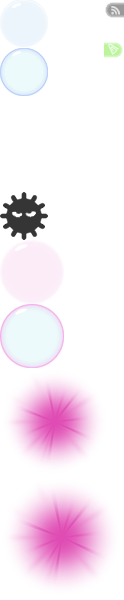
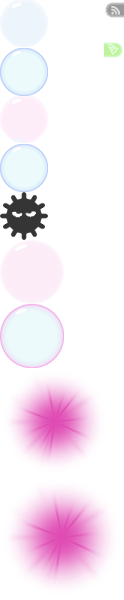
界面设置结束

Changed region(s): [[0.0, 0.24, 0.3871, 0.33]]

diff --git a/views/css/app.less b/views/css/app.less
@@ -1183,21 +1183,14 @@ section.follow_frame{
 		width:165px;
 		height:37px;
 		.sprites(-340px,-431px);
-		margin-bottom:8px;
-		margin-left: -14px;
-		float: right;
+		margin-right:15px;
+		margin-bottom:6px;
 	}
 	.cancel{
 		width:90px;
 		height:37px;
 		.sprites(-340px,-476px);
 		margin-bottom: 8px;
-		margin-right: 114px;
-		float: right;
-	}
-        .cliper{
-		display:none;
-		margin-bottom:6px;
 	}
 }
 
@@ -1645,16 +1638,44 @@ section.follow_frame{
 				font-size: 13px;	
 				height: 48px;
 				margin-top: -8px;
-				span{ width: 50px;}
 				label{
 					margin-top: 28px;
-					margin-right: -4px;
 					float: right;
 					input{
 						float: left;
 						width:auto!important;
 						height:auto!important;
 					}
+				}
+			}
+			li.tag_list{
+				height: 48px;
+				margin-top: -15px;
+				border-bottom: 1px solid #ccc;
+				.sbubb {
+          			        width: 48px;
+          			     	height: 48px;
+          				line-height: 48px;
+					font-size: 12px;
+					text-align: center;
+          				.tag_bg(0px, -96px);
+          				color:#966;
+					float:left;
+					margin-right:10px;
+        			}
+        			.stag {
+				        .sbubb;
+				        color:#966; 
+					.tag_bg(0px, 0px);
+				}
+				.private{
+					height: 37px;
+		   			width: 45px;
+    		   			line-height: 15px;
+		   			overflow: hidden;
+					float: right;
+					margin-top: 7px;
+					.glyphishs(-187px,-194px);
 				}
 			}
 			li.input_checkbox{
@@ -1674,7 +1695,30 @@ section.follow_frame{
 				min-height: 0px;
 				input{margin: 0px;}
 			}
-		}	 			
+		}
+			 			
+	}
+	.btn_group{
+		.verify{
+			width:165px;
+			height:37px;
+			.sprites(-340px,-431px);
+			margin-bottom:8px;
+			margin-left: -14px;
+			float: right;
+		}
+		.cancel{
+			width:90px;
+			height:37px;
+			.sprites(-340px,-476px);
+			margin-bottom: 8px;
+			margin-right: 114px;
+			float: right;
+		}
+        	.cliper{
+			display:none;
+			margin-bottom:6px;
+		}
 	}
 	.bottom{ /* for detail */
 		margin-top: 0px;

diff --git a/views/js/clip/app.clipapp.memo.js b/views/js/clip/app.clipapp.memo.js
@@ -10,7 +10,7 @@ App.ClipApp.ClipMemo=(function(App,Backbone,$){
    * 2，需要多于一个以上的处理
    * 3，在 view 里，与 view 之外的部分通讯，比如，需要知道 region （1的延伸）
    */
-  var MemoView=App.DialogView.extend({
+  var DiaMemoView = App.DialogView.extend({
     tagName:"div",
     className:"organize-view",
     template:"#organize-view-template",
@@ -150,7 +150,7 @@ App.ClipApp.ClipMemo=(function(App,Backbone,$){
   var memoType,defaultNote = _i18n('clipmemo.memo'),o_data;
   function showMemo(data){
     var memoModel = new App.Model.MemoModel(data);//此model作显示用
-    var memoView = new MemoView({model:memoModel});
+    var memoView = new DiaMemoView({model:memoModel});
     App.popRegion.show(memoView);
     $('#obj_tag').tagsInput({});
   }
@@ -196,6 +196,37 @@ App.ClipApp.ClipMemo=(function(App,Backbone,$){
 	});
       }
     }
+  };
+
+  var InnerMemoView=App.DialogView.extend({
+    tagName:"div",
+    className:"memo-view",
+    template:"#memo-view-template",
+    events:{
+      "click .size48"          :"tagToggle"
+    },
+    tagToggle:function(e){
+      $(e.currentTarget).toggleClass("white_48");
+      $(e.currentTarget).toggleClass("orange_48");
+    }
+  });
+
+  function getDefault(){
+    var bubs = App.ClipApp.getDefaultBubbs();
+    var tags = [];
+    var tag_main = _(_(bubs).map(function(e){
+      return { tag:e, checked:(_.indexOf(tags,e) != -1) };
+    })).value();
+    return {main_tag:tag_main, obj_tag:[], pub:false};
+  }
+
+  ClipMemo.showInner = function(MemoRegion, clipModel, edit){
+    var memo = clipModel ? getData(clipModel.toJSON()) : getDefault();
+    memo.edit = edit == false ? edit : true;
+    var model = new App.Model.MemoModel(memo);
+    var memoView = new InnerMemoView({model: model});
+    MemoRegion.show(memoView);
+    $('#obj_tag').tagsInput({});
   };
 
   // TEST

diff --git a/views/js/clip/app.clipapp.clipadd.js b/views/js/clip/app.clipapp.clipadd.js
@@ -147,7 +147,8 @@ App.ClipApp.ClipAdd = (function(App, Backbone, $){
     var clipModel = new App.Model.ClipModel();
     var addClipView = new AddClipView({model: clipModel});
     App.viewRegion.show(addClipView);
-    showMemo();
+    ClipAdd.memoRegion = new App.Region({el:".settags"});
+    App.ClipApp.showInnerMemo(ClipAdd.memoRegion);
 
     App.Editor.init();
     App.Editor.focus("editor");
@@ -181,37 +182,6 @@ App.ClipApp.ClipAdd = (function(App, Backbone, $){
 	App.viewRegion.close();
       });
     }
-  };
-
-  var MemoView=App.DialogView.extend({
-    tagName:"div",
-    className:"memo-view",
-    template:"#memo-view-template",
-    events:{
-      "click .size48"          :"tagToggle"
-    },
-    tagToggle:function(e){
-      $(e.currentTarget).toggleClass("white_48");
-      $(e.currentTarget).toggleClass("orange_48");
-    }
-  });
-
-  function getData(){
-    var bubs = App.ClipApp.getDefaultBubbs();
-    var tags = [];
-    var tag_main = _(_(bubs).map(function(e){
-      return { tag:e, checked:(_.indexOf(tags,e) != -1) };
-    })).value();
-    return {main_tag:tag_main, obj_tag:[], pub:false};
-  }
-
-  function showMemo(){
-    var data = getData();
-    var model = new App.Model.MemoModel(data);
-    var memoView = new MemoView({model: model});
-    ClipAdd.memoRegion = new App.Region({el:".settags"});
-    ClipAdd.memoRegion.show(memoView);
-    $('#obj_tag').tagsInput({});
   };
 
   App.vent.bind("app.clipapp.clipadd:memo",function(data){

diff --git a/views/js/clip/app.clipapp.clipedit.js b/views/js/clip/app.clipapp.clipedit.js
@@ -27,7 +27,6 @@ App.ClipApp.ClipEdit = (function(App, Backbone, $){
       "click .btn_img":"up_extImg",
       "click .masker_layer1":"hide_extImg",
       "click .format":"upFormat",
-      "click .note":"remarkClip",
       "click #editClip_Save":"saveUpdate",
       "click .cancel":"abandonUpdate",
       "click .masker":"masker",
@@ -70,9 +69,6 @@ App.ClipApp.ClipEdit = (function(App, Backbone, $){
       // $(".editContent-container").addClass("ContentEdit"); // 改变显示格式
       // 为.editContent-container下的p标签添加click事件
       // console.info("调整页面格式");
-    },
-    remarkClip:function(){
-      App.ClipApp.showMemo(this.model.id);
     },
     saveUpdate: function(e){
       var target = $(e.currentTarget);
@@ -143,12 +139,15 @@ App.ClipApp.ClipEdit = (function(App, Backbone, $){
 	$("#fake").empty();
 	App.Editor.init();
 	App.Editor.setContent("editor",html);
+	ClipEdit.memoRegion = new App.Region({el:".settags"});
+	App.ClipApp.showInnerMemo(ClipEdit.memoRegion, model);
 	setTimeout(function(){old_content=App.Editor.getContent("editor");},200);
 	$($("#editor").get(0).contentWindow.document.body).keydown(function(e){
 	  if(e.ctrlKey&&e.keyCode==13){ $("#editClip_Save").click(); }
 	});
       },100);
     });
+
     //接受上传图片返回的信息
     App.vent.bind("app.clipapp:upload",function(returnVal){
       App.util.get_imgurl(returnVal,function(err, img_src){

diff --git a/views/js/clip/app.clipapp.js b/views/js/clip/app.clipapp.js
@@ -203,8 +203,12 @@ App.ClipApp = (function(App, Backbone, $){
     ClipApp.ClipDetail.show(clipid,model_id,recommend);
   };
 
-  ClipApp.showMemo = function(args){
-    ClipApp.ClipMemo.show(args);
+  ClipApp.showMemo = function(clip){
+    ClipApp.ClipMemo.show(clip);
+  };
+
+  ClipApp.showInnerMemo = function(region, clip, edit){
+    ClipApp.ClipMemo.showInner(region, clip, edit);
   };
 
   // 对于那些直接点击修改按钮的部分，有些多余

diff --git a/views/js/clip/app.clipapp.clipdetail.js b/views/js/clip/app.clipapp.clipdetail.js
@@ -226,6 +226,8 @@ App.ClipApp.ClipDetail = (function(App, Backbone, $){
       var anchor = anchors[i];
       anchor.target="_blank";
     }
+    ClipDetail.memoRegion = new App.Region({el:".settags"});
+    App.ClipApp.showInnerMemo(ClipDetail.memoRegion, detailModel, false);
   };
 
   var CommentModel = App.Model.extend({
